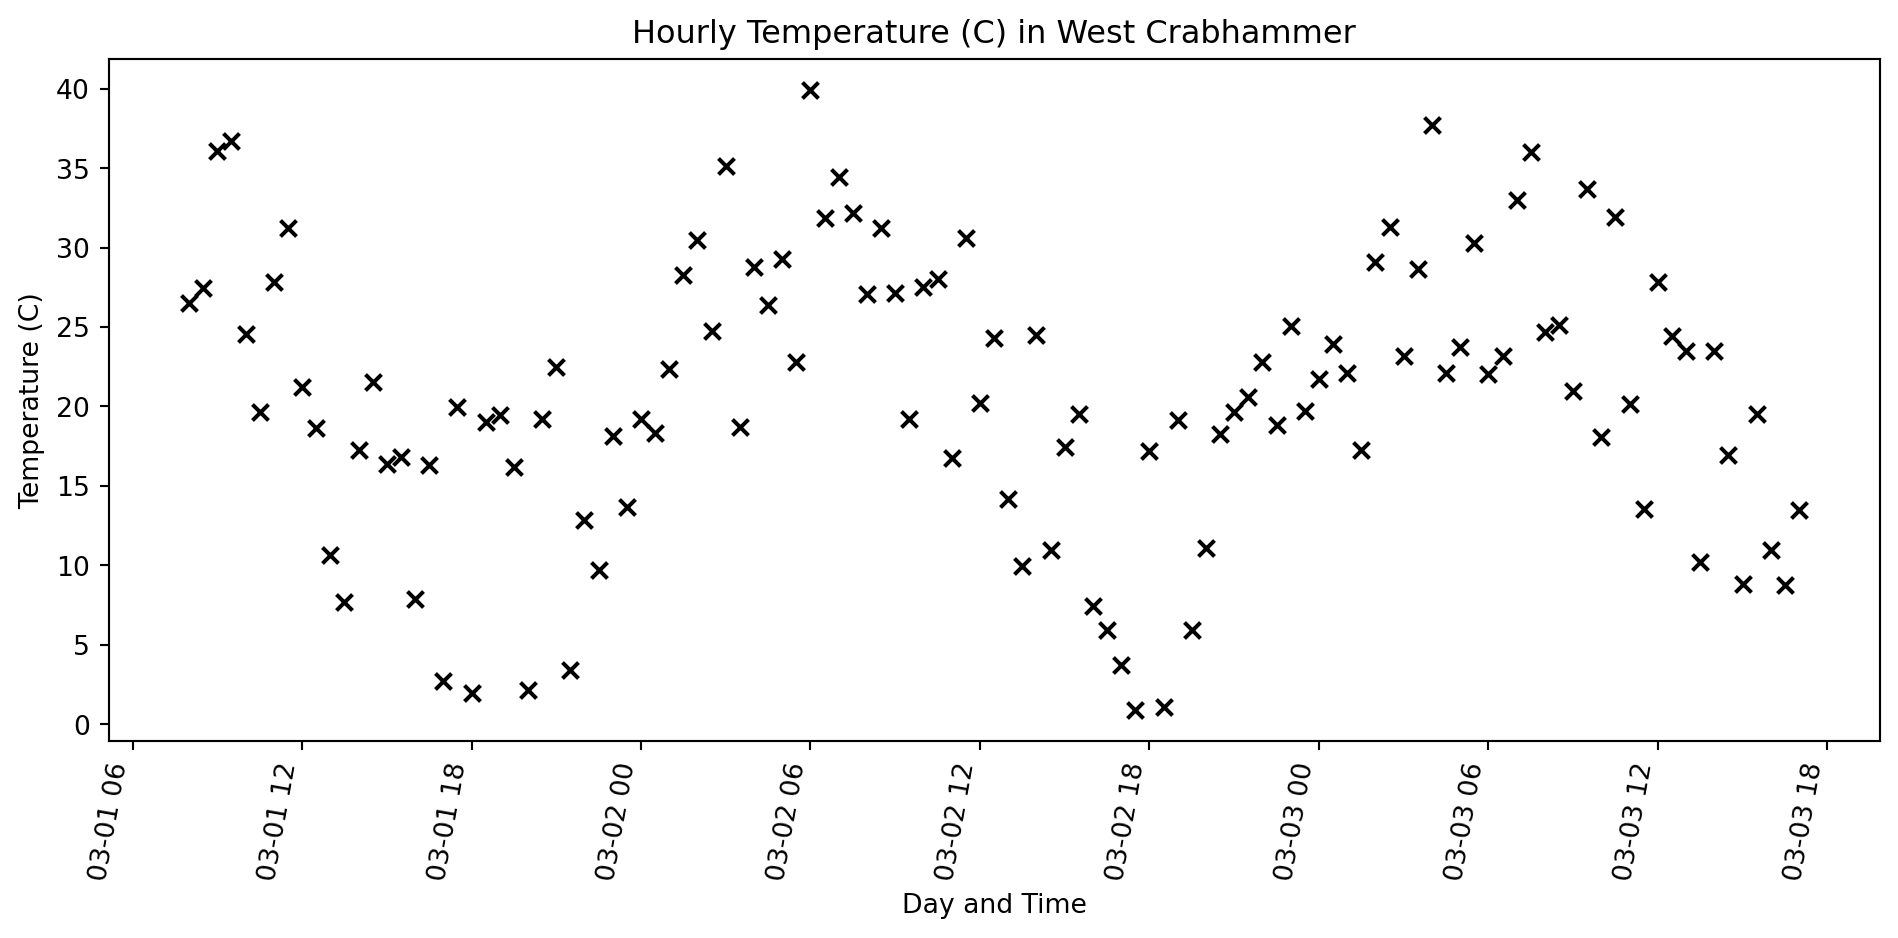
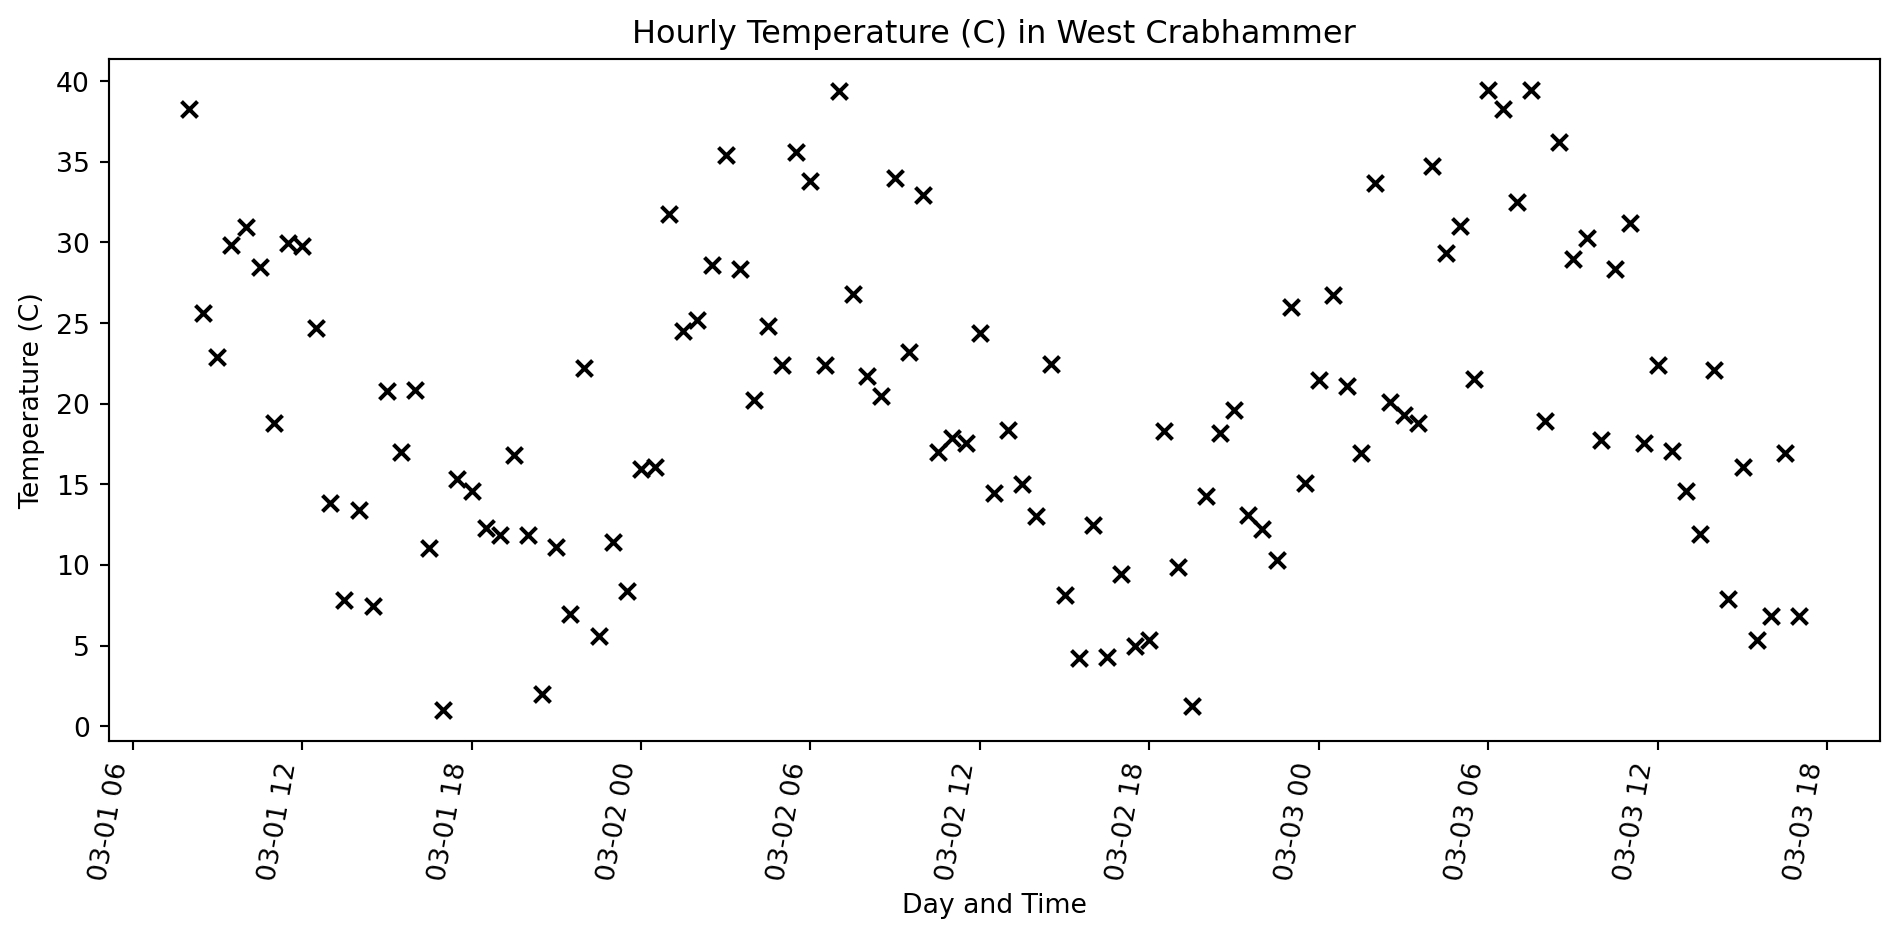
adding conda stuff to intro python

diff --git a/docs/python_geospatial_basics.html b/docs/python_geospatial_basics.html
@@ -209,8 +209,8 @@
 <li class="fragment">generally a widely used language.</li>
 </ul>
 </section>
-<section id="environment-.scrollable-smaller" class="slide level2">
-<h2>Environment {.scrollable smaller}</h2>
+<section id="environment" class="slide level2 scrollable smaller">
+<h2>Environment</h2>
 <p>Before we get started we need to set up a Python environment in which to work. We will be using Anaconda for this.</p>
 <div class="non-incremental">
 <ul>
@@ -289,7 +289,7 @@
 <section id="basic-numbers" class="slide level2">
 <h2>Basic Numbers</h2>
 <p>Floats and Ints don’t do anything all that surprising</p>
-<div id="98f80835" class="cell columns column-output-location" data-execution_count="1">
+<div id="22ce2b86" class="cell columns column-output-location" data-execution_count="1">
 <div class="column">
 <div class="sourceCode cell-code" id="cb4"><pre class="sourceCode numberSource python number-lines code-with-copy"><code class="sourceCode python"><span id="cb4-1"><a></a>a <span class="op">=</span> <span class="dv">2</span> <span class="op">+</span> <span class="dv">2</span></span>
 <span id="cb4-2"><a></a>b <span class="op">=</span> <span class="fl">2.0</span> <span class="op">+</span> <span class="fl">2.0</span></span>
@@ -316,7 +316,7 @@ but 5 // 4 is 1</code></pre>
 <section id="sequences" class="slide level2">
 <h2>Sequences</h2>
 <p>Lists, tuples, and strings ae all sequences</p>
-<div id="b6b50783" class="cell columns column-output-location" data-execution_count="2">
+<div id="6e67651e" class="cell columns column-output-location" data-execution_count="2">
 <div class="column">
 <div class="sourceCode cell-code" id="cb6"><pre class="sourceCode numberSource python number-lines code-with-copy"><code class="sourceCode python"><span id="cb6-1"><a></a><span class="co"># a list</span></span>
 <span id="cb6-2"><a></a>a_list <span class="op">=</span> [<span class="dv">1</span>, <span class="dv">2</span>, <span class="dv">3</span>, <span class="dv">4</span>, <span class="dv">5</span>, <span class="dv">6</span>, <span class="dv">7</span>, <span class="dv">8</span>, <span class="dv">9</span>]</span>
@@ -363,7 +363,7 @@ neushorn?</code></pre>
 </section>
 <section id="dictionaries" class="slide level2">
 <h2>Dictionaries</h2>
-<div id="e400a433" class="cell columns column-output-location" data-execution_count="3">
+<div id="b29298a5" class="cell columns column-output-location" data-execution_count="3">
 <div class="column">
 <div class="sourceCode cell-code" id="cb8"><pre class="sourceCode numberSource python number-lines code-with-copy"><code class="sourceCode python"><span id="cb8-1"><a></a>pets <span class="op">=</span> {<span class="st">'honden'</span>: <span class="dv">26</span>, <span class="st">'katten'</span>: <span class="dv">100</span>}</span>
 <span id="cb8-2"><a></a></span>
@@ -382,7 +382,7 @@ neushorn?</code></pre>
 </section>
 <section id="iterating" class="slide level2">
 <h2>Iterating</h2>
-<div id="39820621" class="cell columns column-output-location" data-execution_count="4">
+<div id="d7239c44" class="cell columns column-output-location" data-execution_count="4">
 <div class="column">
 <div class="sourceCode cell-code" id="cb10"><pre class="sourceCode numberSource python number-lines code-with-copy"><code class="sourceCode python"><span id="cb10-1"><a></a>a <span class="op">=</span> [<span class="dv">1</span>, <span class="dv">2</span>, <span class="dv">3</span>, <span class="dv">4</span>, <span class="dv">5</span>, <span class="dv">6</span>, <span class="dv">7</span>, <span class="dv">8</span>, <span class="dv">9</span>]</span>
 <span id="cb10-2"><a></a></span>
@@ -411,7 +411,7 @@ is the same as
 </section>
 <section id="pandas-dataframe" class="slide level2 scrollable">
 <h2>Pandas DataFrame</h2>
-<div id="502c1bde" class="cell columns column-output-location" data-execution_count="5">
+<div id="3311becf" class="cell columns column-output-location" data-execution_count="5">
 <div class="column">
 <div class="sourceCode cell-code" id="cb12"><pre class="sourceCode numberSource python number-lines code-with-copy"><code class="sourceCode python"><span id="cb12-1"><a></a><span class="im">from</span> datetime <span class="im">import</span> datetime, timedelta</span>
 <span id="cb12-2"><a></a><span class="im">from</span> random <span class="im">import</span> uniform</span>
@@ -474,27 +474,27 @@ is the same as
 <tr class="odd">
 <td data-quarto-table-cell-role="th">0</td>
 <td>2025-03-01 08:00:00</td>
-<td>28.024090</td>
+<td>32.527418</td>
 </tr>
 <tr class="even">
 <td data-quarto-table-cell-role="th">1</td>
 <td>2025-03-01 08:30:00</td>
-<td>38.403572</td>
+<td>23.158128</td>
 </tr>
 <tr class="odd">
 <td data-quarto-table-cell-role="th">2</td>
 <td>2025-03-01 09:00:00</td>
-<td>30.504945</td>
+<td>25.887104</td>
 </tr>
 <tr class="even">
 <td data-quarto-table-cell-role="th">3</td>
 <td>2025-03-01 09:30:00</td>
-<td>21.240569</td>
+<td>27.238517</td>
 </tr>
 <tr class="odd">
 <td data-quarto-table-cell-role="th">4</td>
 <td>2025-03-01 10:00:00</td>
-<td>18.277128</td>
+<td>29.875728</td>
 </tr>
 </tbody>
 </table>
@@ -505,7 +505,7 @@ is the same as
 </section>
 <section id="pandas-dataframe-cont." class="slide level2 scrollable">
 <h2>Pandas DataFrame Cont.</h2>
-<div id="63ff3a93" class="cell columns column-output-location" data-execution_count="6">
+<div id="512ad500" class="cell columns column-output-location" data-execution_count="6">
 <div class="column">
 <div class="sourceCode cell-code" id="cb13"><pre class="sourceCode numberSource python number-lines code-with-copy"><code class="sourceCode python"><span id="cb13-1"><a></a><span class="im">from</span> datetime <span class="im">import</span> datetime, timedelta</span>
 <span id="cb13-2"><a></a><span class="im">from</span> random <span class="im">import</span> uniform</span>
@@ -645,7 +645,7 @@ Figure&nbsp;1: A line plot on a polar axis
 </section>
 <section id="polygon" class="slide level2">
 <h2>Polygon</h2>
-<div id="b848e9a4" class="cell columns column-output-location" data-execution_count="8">
+<div id="563e137e" class="cell columns column-output-location" data-execution_count="8">
 <div class="column">
 <div class="sourceCode cell-code" id="cb15"><pre class="sourceCode numberSource python number-lines code-with-copy"><code class="sourceCode python"><span id="cb15-1"><a></a><span class="im">from</span> shapely <span class="im">import</span> Polygon</span>
 <span id="cb15-2"><a></a></span>
@@ -672,7 +672,7 @@ Figure&nbsp;1: A line plot on a polar axis
 <section id="reading-files" class="slide level2">
 <h2>Reading Files</h2>
 <p>Here we will read a geojson using the <code>read_file</code> method.</p>
-<div id="89057f32" class="cell columns column-output-location" data-execution_count="9">
+<div id="655a90bb" class="cell columns column-output-location" data-execution_count="9">
 <div class="column">
 <div class="sourceCode cell-code" id="cb17"><pre class="sourceCode numberSource python number-lines code-with-copy"><code class="sourceCode python"><span id="cb17-1"><a></a><span class="im">from</span> pathlib <span class="im">import</span> Path</span>
 <span id="cb17-2"><a></a><span class="im">import</span> geopandas <span class="im">as</span> gpd</span>
